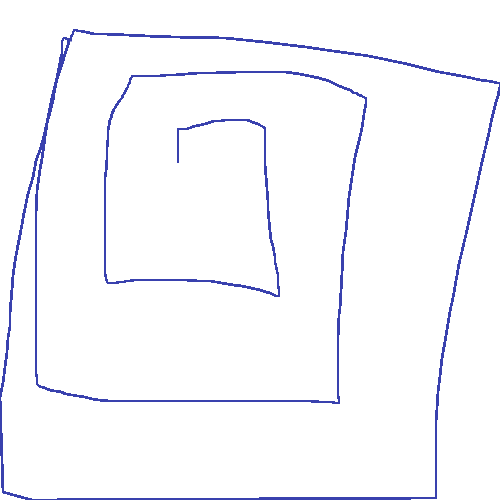
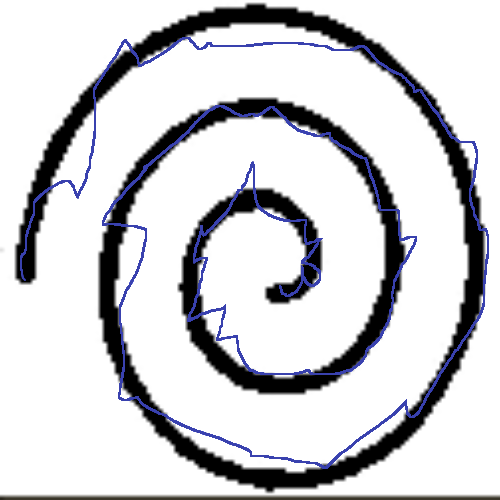
imaging work

Changed region(s): [[0.0, 0.0, 1.0, 1.0], [0.9, 0.15, 1.0, 0.21], [0.6, 0.15, 0.69, 0.18]]

diff --git a/templates/PDimage_upload1.html b/templates/PDimage_upload1.html
@@ -44,7 +44,15 @@
         var canvas = document.getElementById('canvas');
         var ctx = canvas.getContext('2d');
         var drawing = false;
-        
+        var img = new Image();
+
+        // Specify the source of the image
+        img.src = "{{ url_for('static', filename='images/spiral.png') }}";
+
+        // Draw the image on the canvas once it's loaded
+        img.onload = function() {
+            ctx.drawImage(img, 0, 0, canvas.width, canvas.height);
+        }
         canvas.addEventListener('mousedown', function(e) {
             drawing = true;
             ctx.beginPath();
